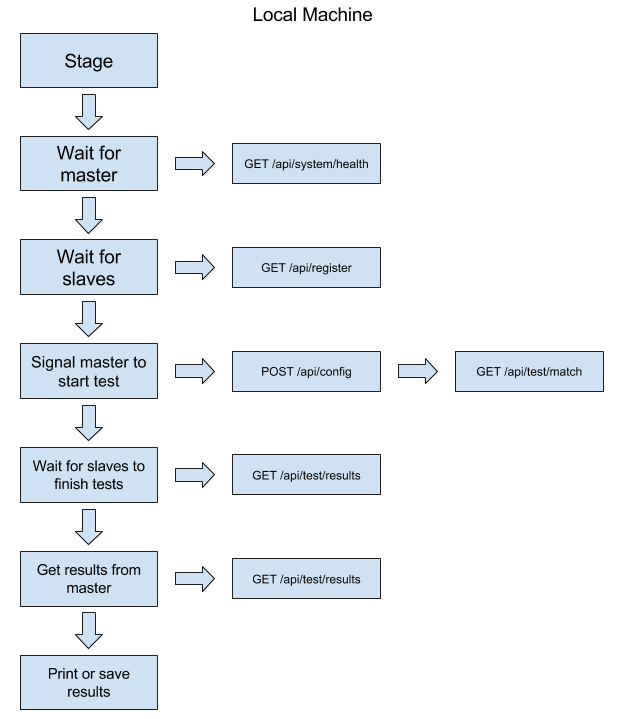
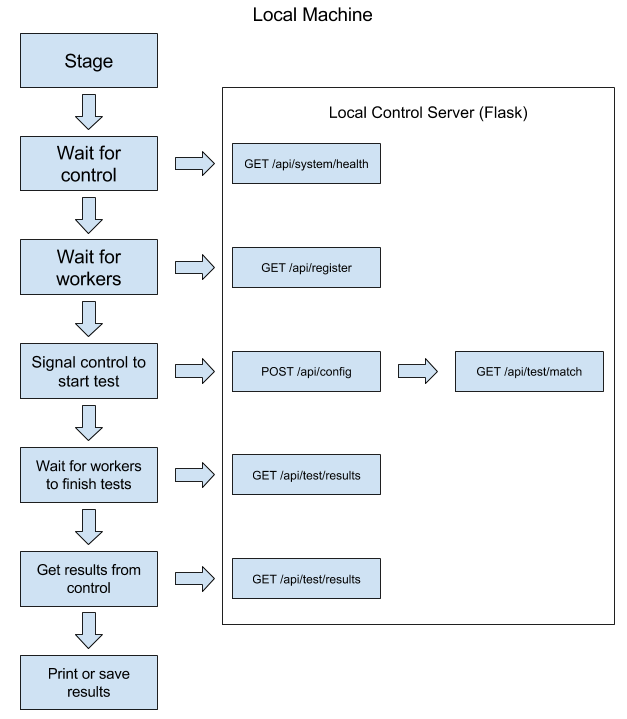
Updates

diff --git a/cloudpunch/app.py b/cloudpunch/app.py
@@ -255,8 +255,9 @@ def cp_app():
                         level=numeric_level,
                         filename=args.log_file)
 
-    # Turn off Flask info messages
+    # Turn off unwanted info messages
     logging.getLogger('werkzeug').setLevel(logging.ERROR)
+    logging.getLogger('kafka').setLevel(logging.ERROR)
 
     # Run workload
     if args.workload == 'run':

diff --git a/docs/configuration.md b/docs/configuration.md
@@ -6,7 +6,7 @@ All CloudPunch configuration is given through the command-line
 
 The following options are given on the command-line when using cloudpunch
 
-- `workload` - The type of workload to run. Can be run, cleanup, post, master, or slave. These are covered below
+- `workload` - The type of workload to run. Can be run, cleanup, post, or worker. These are covered below
 
 - `-h, --help` - Show the help message and exit
 
@@ -44,6 +44,12 @@ The following options are given on the command-line when using cloudpunch run
 
 - `-i, --reuse` - Enable reuse mode by providing an existing CloudPunch run ID. This will reuse any resources that belong to this ID and adjust the environment to match the new configuration
 
+- `-l, --listen` - Local address that the control server will bind to. The default is 0.0.0.0
+
+- `-t, --port` - Local port that the control server will bind to. The default is 9985. This will populate down to the worker servers
+
+- `-w, --connect` - Provide a local interface or IP address as a hint to what the worker servers on OpenStack will connect back to when communicating with the local control server. By default CloudPunch will attempt to find an IP address based on the default gateway of the local machine. Note that this does not have to be a known IP address or DNS name from the local machine (for example: a floating IP address on OpenStack)
+
 - `--no-env` - Disables loading authentication information from the environment. Use this to force the OpenRC file over the environment
 
 - `--manual` - Enable manual test start mode. After the environment is staged and ready but before the test begins, the user must press Enter to continue. Note that this requires interactive
@@ -74,8 +80,6 @@ The following options are given on the command-line when using cloudpunch post
 
 - `results_file` - Provide the results file from a CloudPunch run
 
-- `-h, --help` - Show the help message and exit
-
 - `-f, --format` - The format to convert the processed results to. Can be json, yaml (default), table, or csv
 
 - `o, --output` - Specify an output file to save processed results to
@@ -92,21 +96,13 @@ The following options are given on the command-line when using cloudpunch post
 
 - `--open` - Open the generated HTML graph file after creation (graph format only)
 
-## Master Command-line Options
+## Worker Command-line Options
 
-The following options are given on the command-line when using cloudpunch master
+The following options are given on the command-line when using cloudpunch worker
 
-- `-l, --listen` - Local network binding to run the master on. The default is 0.0.0.0
+- `control_ip` - IP address of the control server
 
-- `-p, --port` - Local port to run the master on. The default is 80
-
-- `-d, --debug` - Enable debug mode
-
-## Slave Command-line Options
-
-The following options are given on the command-line when using cloudpunch slave
-
-- `master_ip` - IP address of the master server
+- `-p, --port` - Port of the control server. The default is 9985
 
 ## Configuration File
 
@@ -170,7 +166,7 @@ metrics:
 
 - `instances_per_network` - The number of instances to be created for each network
 
-- `test` - A list of test names to run. These test names are derived from the filenames inside `cp_slave/`. For example `iperf.py` would be "iperf"
+- `test` - A list of test names to run. These test names are derived from the filenames inside `worker/`. For example `iperf.py` would be "iperf"
 
 - `test_mode` - The type of test processing that should occur. The following options are allowed:
 
@@ -221,10 +217,6 @@ api_versions:
   nova: 2
   neutron: 2
   lbaas: 2
-master:
-  flavor: m1.small
-  availability_zone:
-  userdata:
 server:
   flavor: m1.small
   availability_zone:
@@ -291,9 +283,6 @@ secgroup_rules:
     - 22
     - 22
   - - tcp
-    - 80
-    - 80
-  - - tcp
     - 5201
     - 5201
 dns_nameservers:
@@ -321,17 +310,9 @@ external_network:
 
   - `neutron` - The version of neutron (network) to use
 
-  - 'lbaas' - The version of lbaas (loadbalancer as a service) to use
+  - `lbaas` - The version of lbaas (loadbalancer as a service) to use
 
-- `master` - Properties that apply to the master instance. The master instance is the only instance that requires a floating IP address as the local machine uses it to interact with the test environment. `master` has the following sub keys:
-
-  - `flavor` - The name of the flavor to use when creating the instance. This can be a name or ID
-
-  - `availability_zone` - The availability zone to attach the master instance to
-
-  - `userdata` - A list of commands processed by shell to run during the cloud-init process. This is used to setup the master server for specific environments
-
-- `server` - Properties that apply to the server role. The server role is a slave that is designated as a server during creation and when tests are running. `server` has the following sub keys:
+- `server` - Properties that apply to the server role. The server role is a worker that is designated as a server during creation and when tests are running. `server` has the following sub keys:
 
   - `flavor` - The name of the flavor to use when creating the instance. This must be the name and not an ID
 
@@ -389,7 +370,7 @@ external_network:
 
   - `userdata` - A list of commands processed by shell to run during the cloud-init process. This is used to setup the server role for specific environments and tests
 
-- `client` - Properties that apply to the client role. The client role is a slave that is designated as a client during creation and when tests are running. `client` has the following sub keys:
+- `client` - Properties that apply to the client role. The client role is a worker that is designated as a client during creation and when tests are running. `client` has the following sub keys:
 
   - `flavor` - The name of the flavor to use when creating the instance. This must be the name and not an ID
 

diff --git a/docs/cloudpunch.md b/docs/cloudpunch.md
@@ -18,29 +18,23 @@ Framework for performance testing an OpenStack environment at scale
 
 ## Process Breakdown
 
-CloudPunch consists of three different roles:
+CloudPunch consists of two different roles:
 
  - Local Machine - The machine starting the test(s) and receiving the results outside of OpenStack.
 
- - Master - The OpenStack instance that is the communication between external and internal OpenStack. The local machine will send configuration to the master so the slaves can get it. The slaves send test(s) results back the master so the local machine can receive them.
-
- - Slave - The OpenStack instance that runs the test(s). It reports only to the master.
+ - Worker - The OpenStack instance that runs the test(s). It reports to the local machine.
 
 ##### Local Machine
 
-The local machine handles staging everything on OpenStack. It also handles cleanup when completed. Below is an overview of the process that the local machine handles. API calls to the master are included on the right side.
+The local machine handles staging everything on OpenStack. It also handles cleanup when completed. Below is an overview of the process that the local machine handles. API calls to local control server are on the right side.
 
 ![Local Machine](images/local-machine.png "CloudPunch Local Machine")
 
-##### Master
+##### Worker
 
-The master is just a flask instance hosting a web API. The master is the gateway between external and internal OpenStack. The local machine and slaves only talk to the master, never to each other.
+Workers are the instances that run the test(s). They talk to the control server to get the configuration, run the test(s), and then send the JSON results back to the control server. Below is an overview of the process that the workers handle. API calls to the control server are included on the right side.
 
-##### Slave
-
-Slaves are the instances that run the test(s). They talk to the master to get the configuration, run the test(s), and then send the JSON results back the master. Below is an overview of the process that the slaves handle. API calls to the master are included on the right side.
-
-![Slave (OpenStack)](images/slave-instance.png "CloudPunch Slave")
+![Worker (OpenStack)](images/worker.png "CloudPunch Worker")
 
 ## Network Types
 
@@ -66,7 +60,7 @@ Single router uses the instance's IP addresses and not floating IP addresses (th
 
 ## Load Balancer Network
 
-When creation of a load balancer is included in the environment file, a balancer will be created for each network. All instances on this network will be added as members to said load balancer. When full network is used, the load balancers will use floating IP addresses; all other network modes will use fixed IP addresses. See below for a diagram showing a load balancer in front of servers when using the single router network mode.
+When creation of a load balancer is included in the environment file, a load balancer will be created for each network. All instances on this network will be added as members to said load balancer. When full network is used, the load balancers will use floating IP addresses; all other network modes will use fixed IP addresses. See below for a diagram showing a load balancer in front of servers when using the single router network mode.
 
 ![Load Balanced Servers](images/loadbalancer.png "Load Balanced Servers")
 

diff --git a/docs/custom_tests.md b/docs/custom_tests.md
@@ -1,8 +1,8 @@
 # Writing Custom Tests
 
-All official tests live under `cloudpunch/slave` as `testname.py`. The test name is set in the configuration file. See existing tests inside `cloudpunch/slave` for further examples.
+All official tests live under `cloudpunch/worker` as `testname.py`. The test name is set in the configuration file. See existing tests inside `cloudpunch/worker` for further examples.
 
-Tests must be located on the instances that run the tests. If a custom test is created, put this file inside a directory called `tests` inside the current working directory. Any test files inside the configuration will be grabbed and pushed up to the slaves to run.
+Tests must be located on the instances that run the tests. If a custom test is created, put this file inside a directory called `tests` inside the current working directory. Any test files inside the configuration will be grabbed and pushed up to the workers to run.
 
 ##### Custom Test Example
 ```python
@@ -30,7 +30,7 @@ class CloudPunchTest(Thread):
             logging.error('Missing required command information')
 ```
 
-A test must contain `CloudPunchTest` class as a `Thread` type. It must inherit from `Thread` because the slaves run the test classes as threads. The `__init__` must contain `config`. This is a dictionary representing the configuration file given. Be sure to include `super(CloudPunchTest, self).__init__()` to call the parent Thread's init method. The `run` method has no added arguments and is designed to run the actual test. Note that any custom keys added in the configuration file are exposed as seen with `self.config['server-command']`.
+A test must contain `CloudPunchTest` class as a `Thread` type. It must inherit from `Thread` because the workers run the test classes as threads. The `__init__` must contain `config`. This is a dictionary representing the configuration file given. Be sure to include `super(CloudPunchTest, self).__init__()` to call the parent Thread's init method. The `run` method has no added arguments and is designed to run the actual test. Note that any custom keys added in the configuration file are exposed as seen with `self.config['server-command']`.
 
 Any results are to be saved in `self.final_results`. This serves to allow the workers to send test results back to the local machine's control server Results should not be left empty. If a run is configured not to send results back the results will not be posted to the control server. If there is no data to send back, set results to something such as `'NoData'` seen in the example above
 
@@ -38,6 +38,6 @@ Tests should be written to be run by servers and clients in case `server_client_
 
 There are extra keys are that injected into the configuration:
 
-- `role` - The role of slave. Either `"server"` or `"client"`
+- `role` - The role of the worker. Either `"server"` or `"client"`
 
-- `match_ip` - The IP address of the associated instance to the slave
+- `match_ip` - The IP address of the associated instance to the worker

diff --git a/docs/getting_started.md b/docs/getting_started.md
@@ -5,8 +5,7 @@
 - Access to OpenStack cloud (admin access optional)
 - Neutron networking
 - External network attached to OpenStack cloud
-- 1 available floating IP if networking mode is single-network or single-router
-- 1+n floating IPs if networking mode is full
+- n floating IPs only if networking mode is full
     - n is number of servers + clients (if server_client_mode is enabled)
 
 ## CloudPunch Prerequisites
@@ -19,7 +18,7 @@ The prerequisites for each role is as follows. Note that any tests run will prob
     - Packages: none
 
 
-- Slave (OpenStack image)
+- Worker (OpenStack image)
     - Python 2.7
     - PIP: xmltodict, gunicorn, kafka
     - Packages: none
@@ -136,7 +135,7 @@ sudo yum update -y
 curl -O https://dl.fedoraproject.org/pub/epel/epel-release-latest-7.noarch.rpm
 sudo yum install epel-release-latest-7.noarch.rpm
 sudo yum-config-manager --enable epel
-sudo yum install -y httpd gcc make gcc-c++ python-pip python-devel libaio librados2 librados2-devel librbd1 librbd1-devel iperf3 fio jq
+sudo yum install -y gcc make gcc-c++ python-pip python-devel libaio librados2 librados2-devel librbd1 librbd1-devel iperf3 fio jq
 
 # Install jmeter
 sudo yum install -y java-1.8.0-openjdk

diff --git a/CHANGELOG.md b/CHANGELOG.md
@@ -5,7 +5,7 @@ A list of notable changes will be documented here
 ### Added
 - A new parameter `-l, --listen` has been added to `cloudpunch run`. This configures the binding address of the control server
 - A new parameter `-t, --port` has been added to `cloudpunch run`. This configures the port that the control server listens on
-- A new parameter `-w, --connect` has been added to `cloudpunch run`. This configures how the workers connect to the local control server
+- A new parameter `-w, --connect` has been added to `cloudpunch run`. This configures how the workers connect to the local control server. The supplied value is either an IP address or interface name
 - All official tests now include sending metrics to Kafka. Currently the only supported format is influxdb. See documentation for more information
 - Doing cleanup search will now search for load balancers v1 and v2
 

diff --git a/docs/README.md b/docs/README.md
@@ -21,7 +21,7 @@
     - [Run Command-line Options](./configuration.md#run-command-line-options)
     - [Cleanup Command-line Options](./configuration.md#cleanup-command-line-options)
     - [Post Command-line Options](./configuration.md#post-command-line-options)
-    - [Worker Command-line Options](./configuration.md#slave-command-line-options)
+    - [Worker Command-line Options](./configuration.md#worker-command-line-options)
     - [Configuration File](./configuration.md#configuration-file)
     - [Environment Files](./configuration.md#environment-files)
     - [Hostmap Files](./configuration.md#hostmap-files)

diff --git a/docs/tests.md b/docs/tests.md
@@ -1,6 +1,6 @@
 # CloudPunch Tests
 
-Tests that live under `cloudpunch/slave` will be documented here.
+Tests that live under `cloudpunch/worker` will be documented here.
 
 All metrics sent to Kafka are tagged with the following tags:
 
